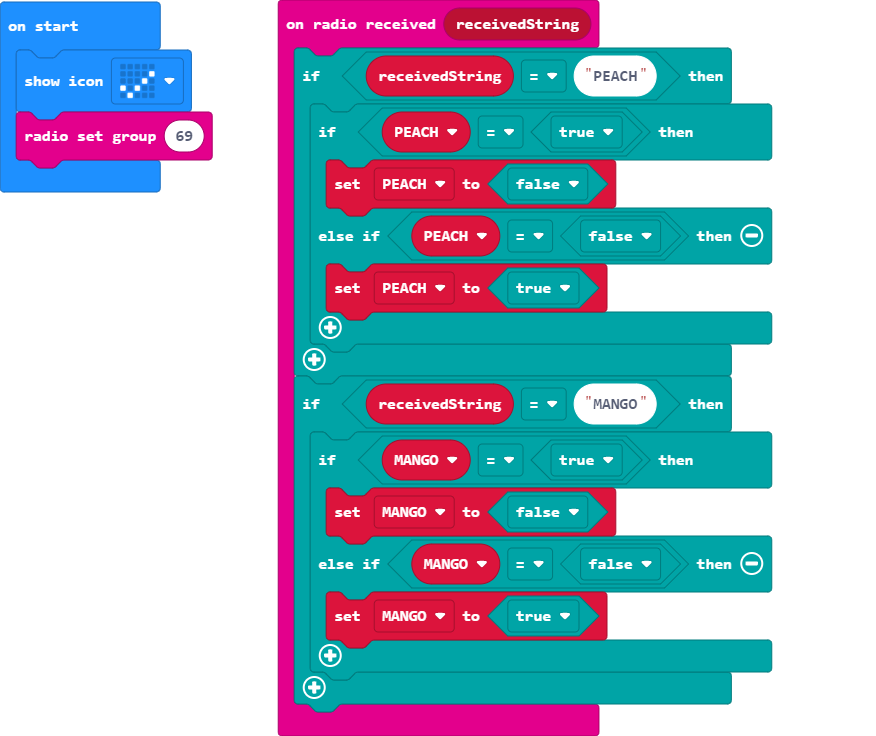
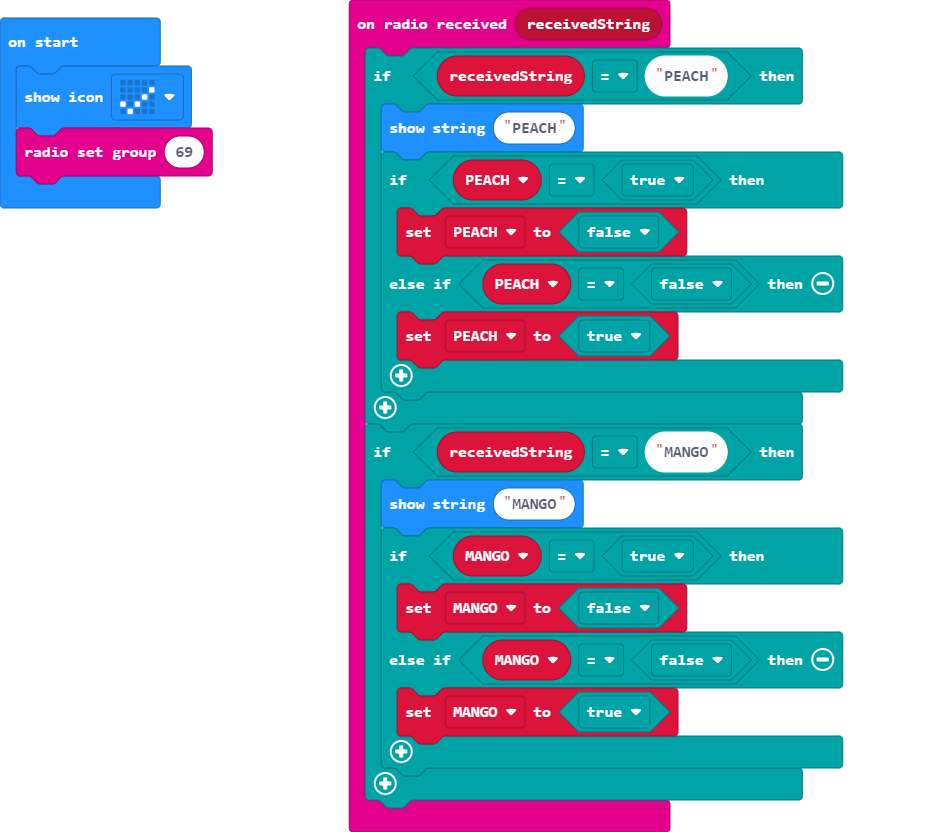
Update main.blocks, main.ts

diff --git a/main.ts b/main.ts
@@ -1,5 +1,6 @@
 radio.onReceivedString(function (receivedString) {
     if (receivedString == "PEACH") {
+        basic.showString("PEACH")
         if (PEACH == true) {
             PEACH = false
         } else if (PEACH == false) {
@@ -7,6 +8,7 @@ radio.onReceivedString(function (receivedString) {
         }
     }
     if (receivedString == "MANGO") {
+        basic.showString("MANGO")
         if (MANGO == true) {
             MANGO = false
         } else if (MANGO == false) {
